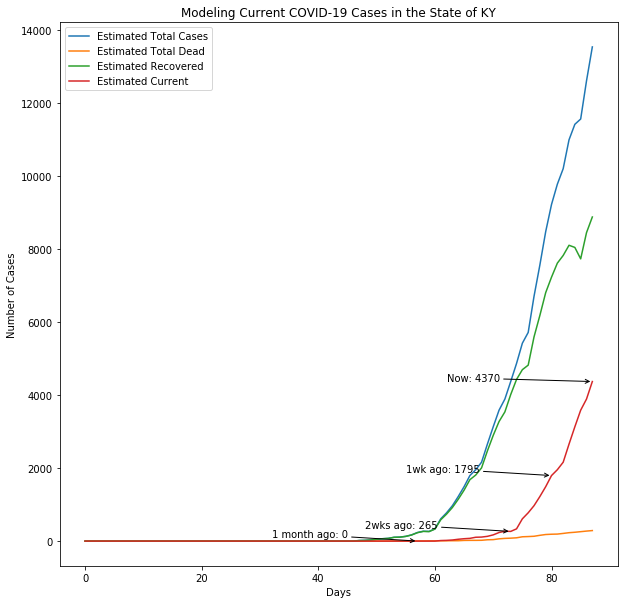
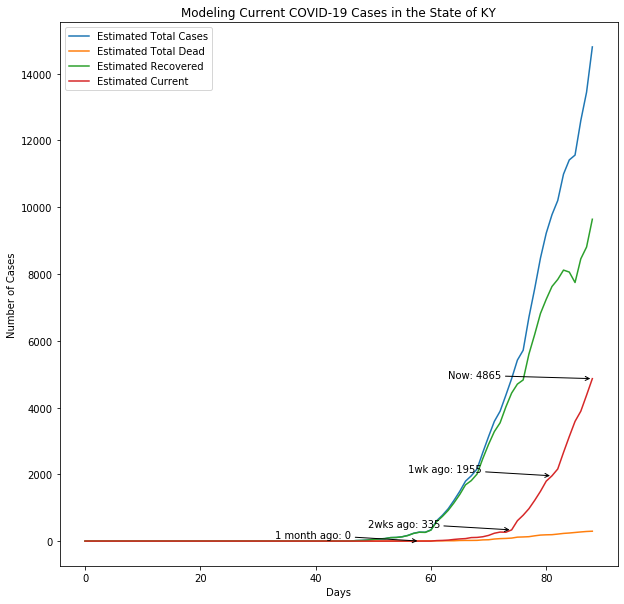
Updated COVID graphics 4/21/20

diff --git a/pages/covid.html b/pages/covid.html
@@ -30,7 +30,7 @@
                 <li>Recovered cases are the total infected minus the total infected cases two weeks ago minus the total infected cases today multiplied by the mortality rate. </li>
                 <li>Mortality rate is used based on the deaths divided by total cases. When used in calculating other values, the most recent estimate is used, as most data is based on cumulative numbers.</li>
             </ol>
-            <p class="project">To the right are visualizations I was able to come up as of April 19, 2020. They will be periodically updated as new data comes in.</p>
+            <p class="project">To the right are visualizations I was able to come up as of April 21, 2020. They will be periodically updated as new data comes in.</p>
             <p class="sources">Sources for data: <br>
 <a href="https://usafacts.org/visualizations/coronavirus-covid-19-spread-map/" target="_blank">Infection & Death Counts</a><br>
 <a href="https://www.who.int/news-room/q-a-detail/q-a-similarities-and-differences-covid-19-and-influenza" target="_blank">WHO</a>
